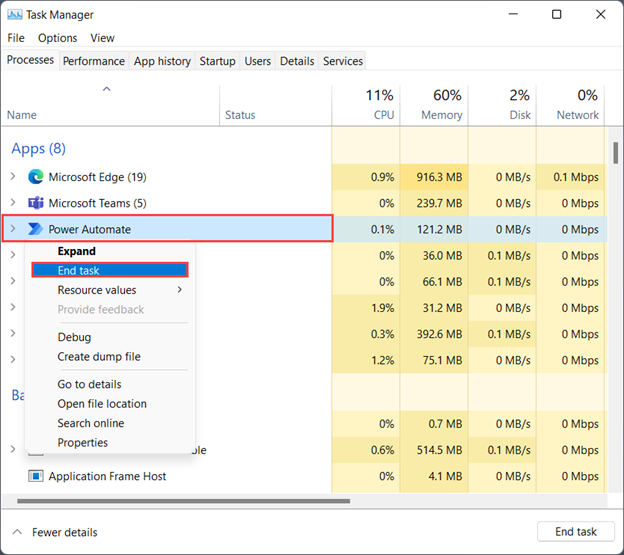
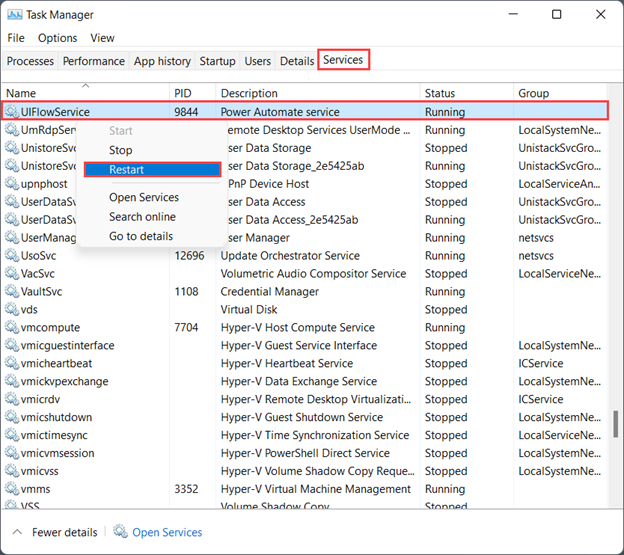
Updates in Set screen resolution on unattended mode part3

diff --git a/articles/desktop-flows/how-to/set-screen-resolution-unattended-mode.md b/articles/desktop-flows/how-to/set-screen-resolution-unattended-mode.md
@@ -40,6 +40,6 @@ To change the resolution in which unattended flows are run:
 
 1. Restart your machine.
 
-    Alternatively to restarting your machine, you can restart the Power Automate service. To restart the Power Automate service, launch Windows Task Manager, right-click on the Power Automate process and select **End task**.
+    Alternatively to restarting your machine, you can restart the **UIFlowService** service. To restart the service, launch Windows Task Manager, navigate to the **Services** tab, right-click on the **UIFlowService** service and select **Restart**.
 
     ![Screenshot of the Windows Task Manager.](media/set-screen-resolution-unattended-mode/task-manager.png)
